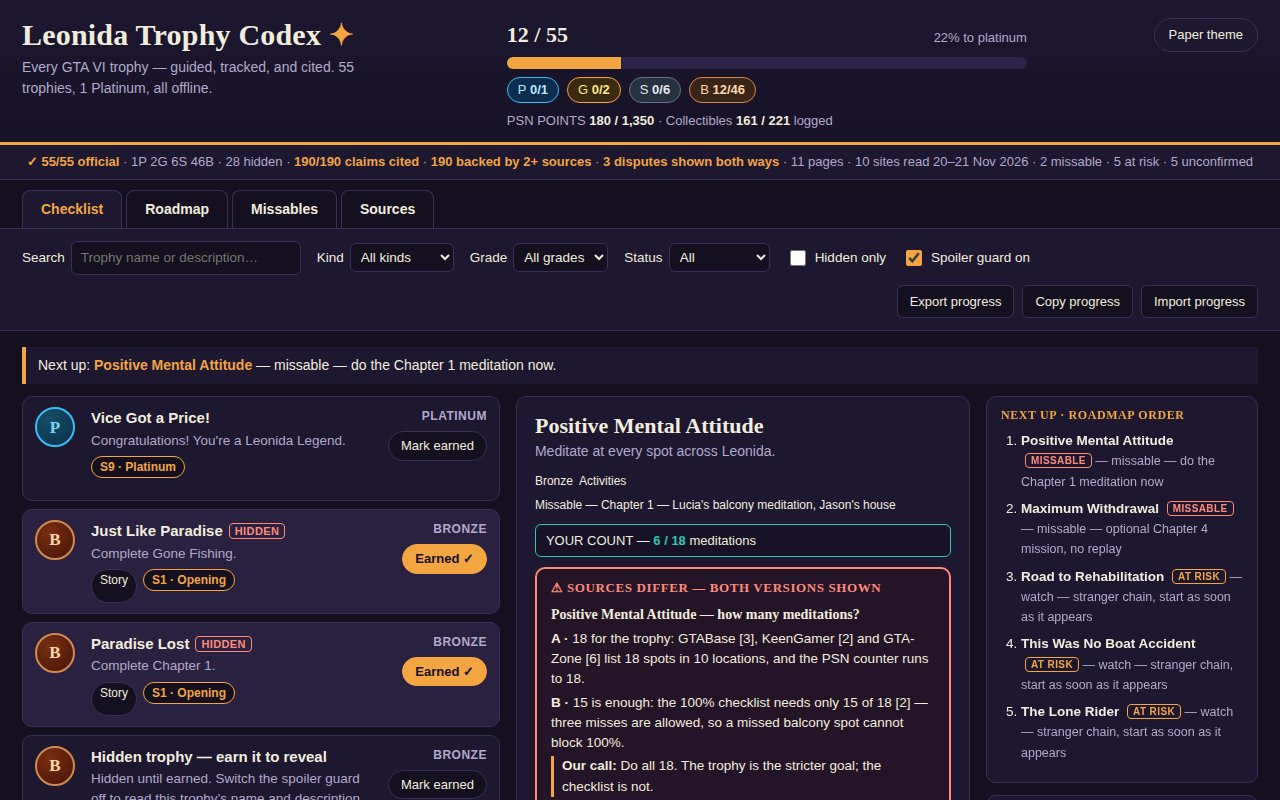
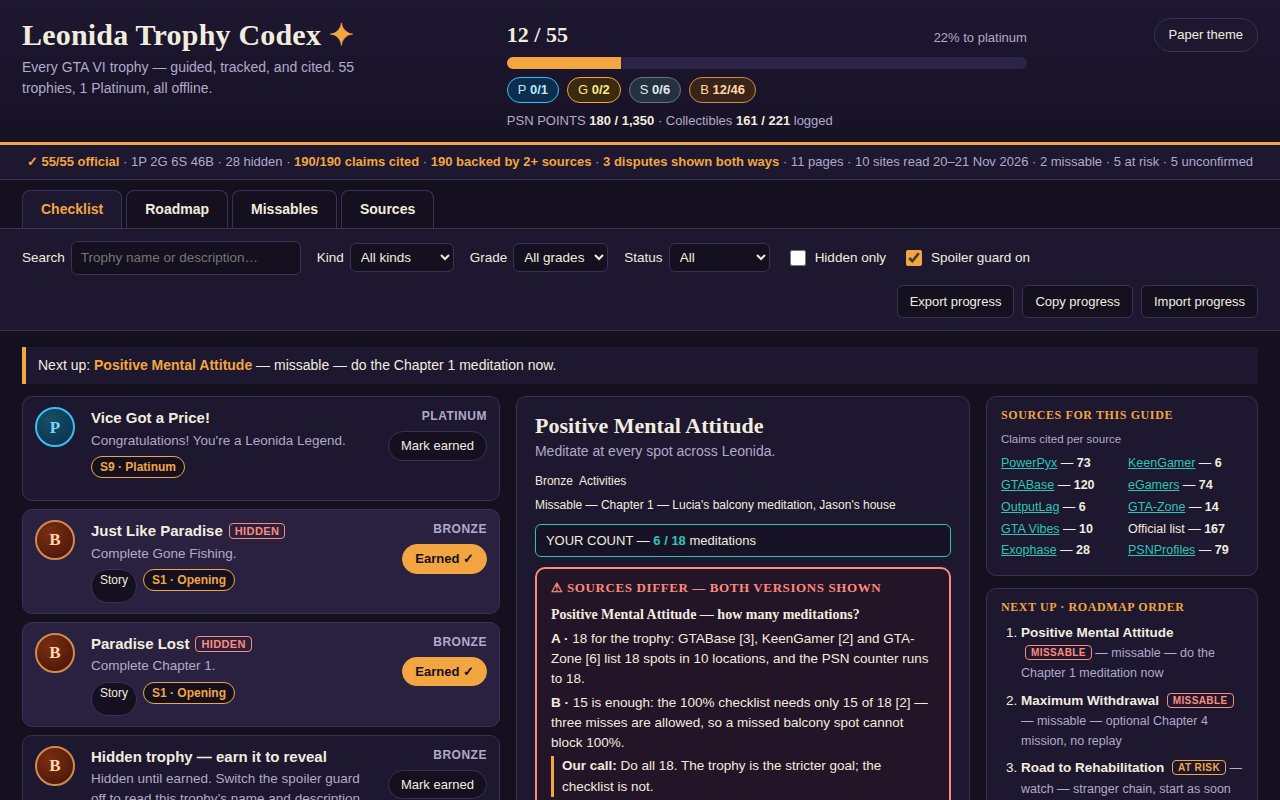
r2 fix: SOURCES panel visible in shot 1
Reorder checklist side rail SOURCES first and compact the source list
into two columns, so the per-source claim counts read in the 800px
cover shot while NEXT UP stays visible below it. MISSABLE WATCH header
now counts 2 MISSABLE to match its two badges; missables intro now
names both missable trophies.

Changed region(s): [[0.7812, 0.5, 0.9688, 1.0]]

diff --git a/app/js/views.js b/app/js/views.js
@@ -386,15 +386,16 @@ export function nextUpPanel(trophies, save, state) {
 }
 
 // SOURCES FOR THIS GUIDE — one line per source, with the claim count the
-// citations actually support.
+// citations actually support. Two columns and compact, so the whole panel
+// fits above NEXT UP inside the 800px cover shot.
 export function sourcesPanel(trophies) {
   const rows = sourceClaimCounts(trophies).map((s) => {
     const label = s.url
-      ? `<a href="${esc(s.url)}" target="_blank" rel="noopener">[${s.num}] ${esc(s.short)}</a>`
-      : `[${s.num}] ${esc(s.short)}`;
-    return `<li>${label} — <strong>${s.claims} claims</strong></li>`;
+      ? `<a href="${esc(s.url)}" target="_blank" rel="noopener">${esc(s.short)}</a>`
+      : esc(s.short);
+    return `<li>${label} — <strong>${s.claims}</strong></li>`;
   }).join('');
-  return `<section class="rail-panel"><h3>SOURCES FOR THIS GUIDE</h3><ul class="src-list">${rows}</ul></section>`;
+  return `<section class="rail-panel"><h3>SOURCES FOR THIS GUIDE</h3><p class="src-note">Claims cited per source</p><ul class="src-list">${rows}</ul></section>`;
 }
 
 // MISSABLE WATCH — the possibly-missable one, the confirmed missable, and the
@@ -413,15 +414,16 @@ export function missableWatchPanel(trophies, save, state) {
     max ? row(max, 'MISSABLE', 'last chance Ch 4 — optional mission') : '',
     ...watch.map((t) => row(t, 'AT RISK', 'last chance — start the chain early')),
   ].join('');
-  return `<section class="rail-panel"><h3>MISSABLE WATCH · 1 POSSIBLY MISSABLE · 5 AT RISK</h3><ul class="watch-list">${items}</ul></section>`;
+  return `<section class="rail-panel"><h3>MISSABLE WATCH · 2 MISSABLE · 5 AT RISK</h3><ul class="watch-list">${items}</ul></section>`;
 }
 
-// The side rail on the checklist view: NEXT UP, SOURCES, MISSABLE WATCH.
+// The side rail on the checklist view: SOURCES first so the per-source
+// counts are visible in the cover shot, then NEXT UP, then MISSABLE WATCH.
 export function renderSideRail(el, trophies, state) {
   if (!el) return;
   el.innerHTML =
-    nextUpPanel(trophies, state.save, state) +
     sourcesPanel(trophies) +
+    nextUpPanel(trophies, state.save, state) +
     missableWatchPanel(trophies, state.save, state);
 }
 
@@ -460,7 +462,7 @@ export function renderMissables(el, trophies, state) {
   const queue = planNextUp(trophies, state.save);
   const planItems = queue.slice(0, 12).map((q) => queueItemHtml(q, state, true)).join('');
   el.innerHTML =
-    `<div class="sources-page"><h2>Missables &amp; Next up</h2><p>PowerPyx and GTABase agree there is only one possibly missable trophy. This page lists it, the Chapter 4 optional mission that cannot be replayed, and the stranger chains to start early — then the planner queue.</p></div>` +
+    `<div class="sources-page"><h2>Missables &amp; Next up</h2><p>PowerPyx and GTABase agree there are two missable trophies: Positive Mental Attitude is the possibly missable one, and Maximum Withdrawal is confirmed missable — its Chapter 4 optional mission cannot be replayed. This page lists both, and the stranger chains to start early — then the planner queue.</p></div>` +
     group('Confirmed missable', 'PowerPyx and GTABase both flag this one. Do it when the guide says, or it may be gone.', confirmed) +
     group('Start early — possible story windows', 'TechWiser reports stranger chains have windows tied to story progress. PowerPyx and GTABase do not confirm it, so this is a watch list, not a confirmed missable list.', watch) +
     `<section class="planner"><h2>Next up planner</h2><p class="stage-progress">Missables first, then the trophies nearest to complete, then story order.</p><ol>${planItems}</ol></section>`;

diff --git a/app/style.css b/app/style.css
@@ -287,8 +287,9 @@ main { padding: 16px 22px 24px; max-width: 1360px; margin: 0 auto; }
 .rail-panel h3 { margin: 0 0 8px; font-size: 12px; text-transform: uppercase; letter-spacing: .6px; color: var(--gold); }
 .nextup-list { margin: 0; padding-left: 20px; font-size: 13.5px; }
 .nextup-list li { margin-bottom: 7px; }
-.src-list { margin: 0; padding-left: 0; list-style: none; font-size: 13.5px; }
-.src-list li { margin-bottom: 5px; }
+.src-list { margin: 0; padding-left: 0; list-style: none; font-size: 12.5px; display: grid; grid-template-columns: 1fr 1fr; column-gap: 12px; }
+.src-list li { margin-bottom: 3px; white-space: nowrap; }
+.src-note { margin: 0 0 6px; font-size: 11.5px; color: var(--paper-muted); }
 .watch-list { margin: 0; padding-left: 0; list-style: none; font-size: 13.5px; }
 .watch-list li { margin-bottom: 7px; }
 .queue-reason { color: var(--paper-muted); font-size: 12.5px; }
